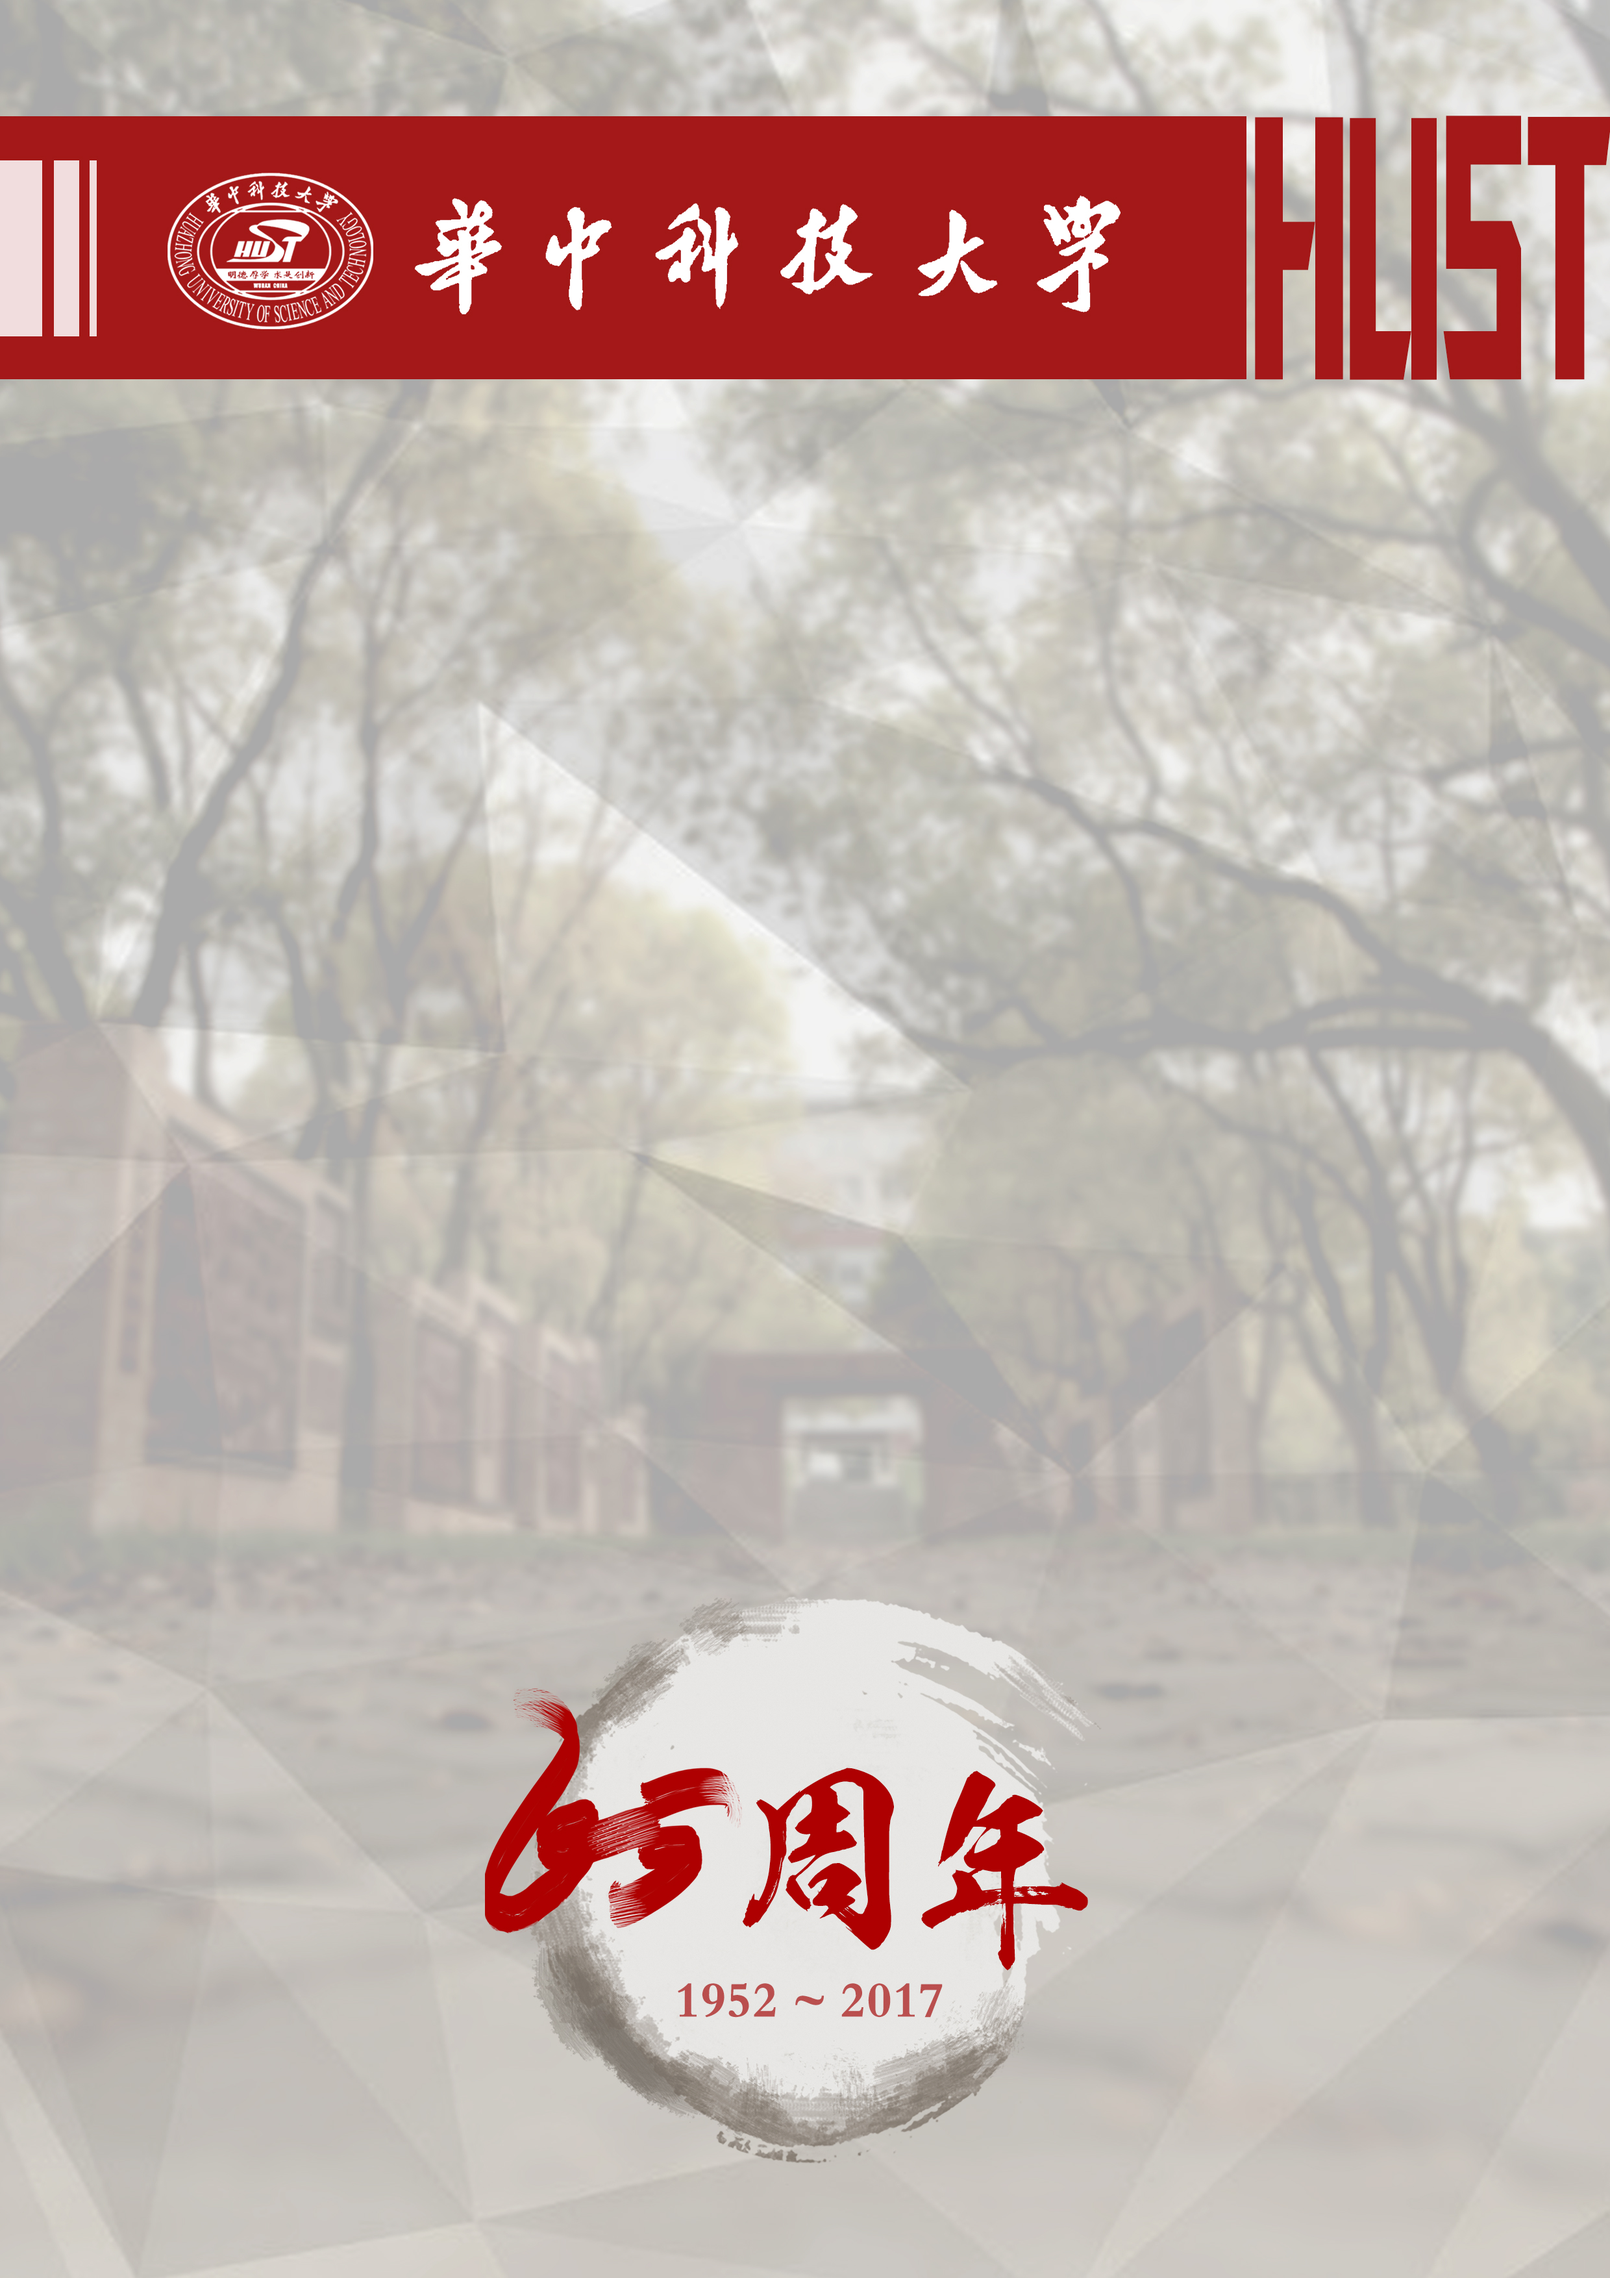
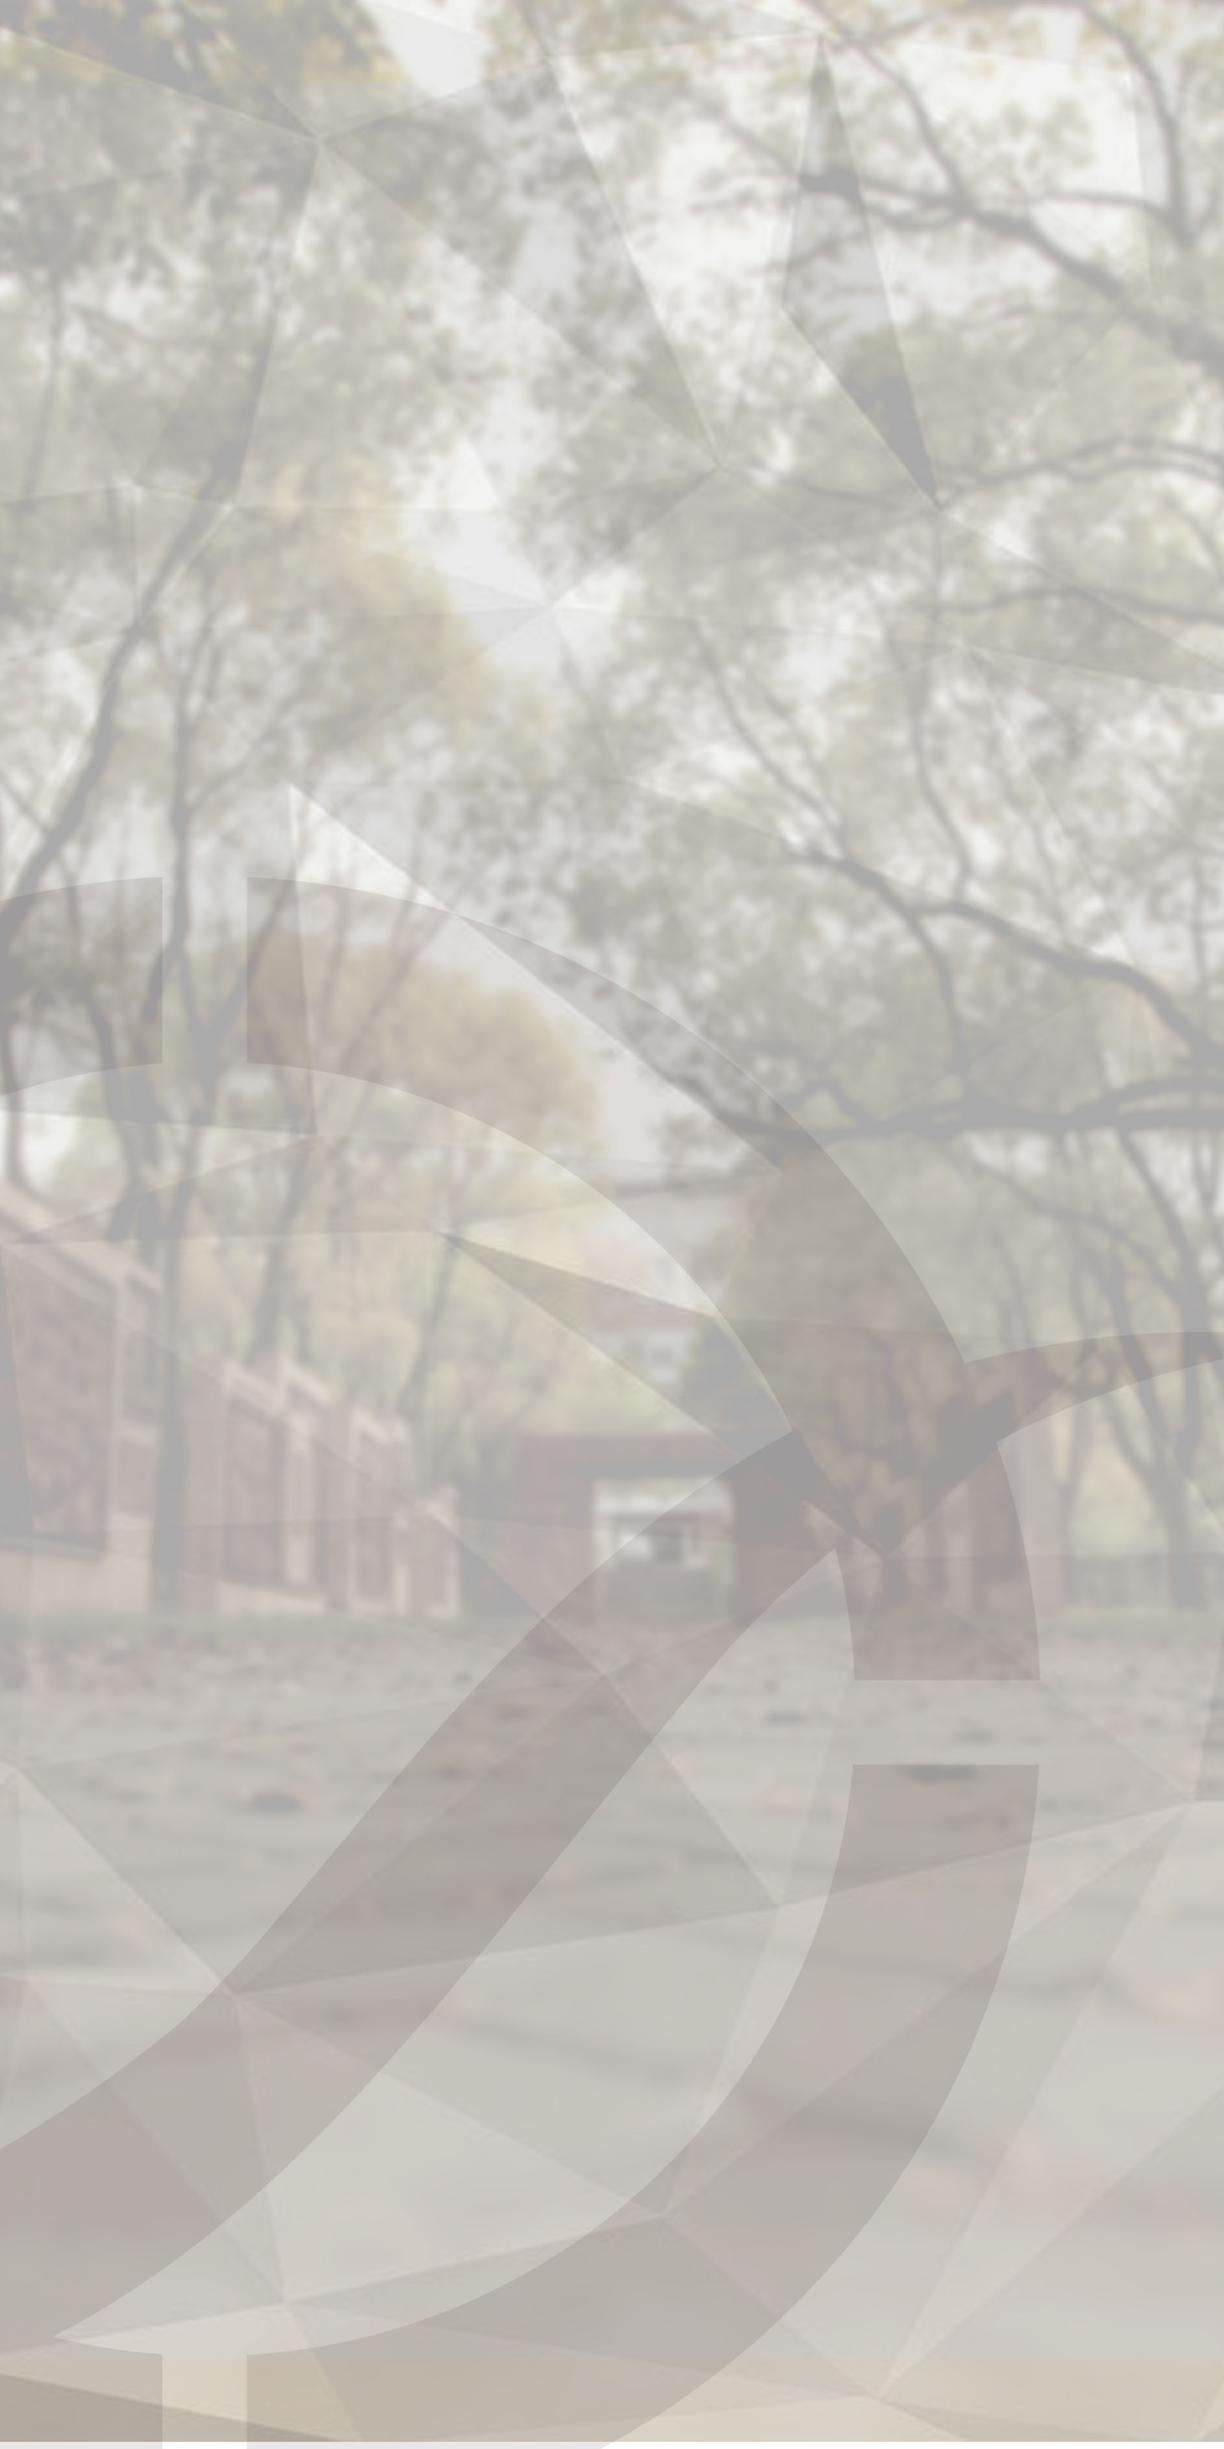
样式

diff --git a/css/my.css b/css/my.css
@@ -1,9 +1,9 @@
 body {
     margin-top: 0%;
-    background-image: url('../img/bd-su.jpg');
+    background-image: url('../img/BG.jpg');
     background-size: 100%;
     background-repeat: no-repeat;
-    background-position: center center;
+    /*background-position: center center;*/
     font-family: "Microsoft Yahei","Times New Roman",Georgia,Sans-Serif;
 }
 
@@ -124,5 +124,10 @@ body {
     max-width: 100%;
 }
 
+.foot-img {
+    margin: 10px auto;
+    width: 650px;
+    height: 300px;
+}
 
 

diff --git a/index.html b/index.html
@@ -78,12 +78,13 @@
             </div>
 
 
-
-
+			<div class="row">
+				<img src="img/foot.png" class="foot-img" alt="">
+			</div>
 
 
 </div class="footer-div">
-    <p class="footer">2017 © Powered by HUSTSU  All rights reserved.</p>
+    <p class="footer"><small>2017 © Powered by HUSTSU && 电信学院科协技术部  All rights reserved.</small></p>
 </div>
 
 <script src="js/my.js"></script>
